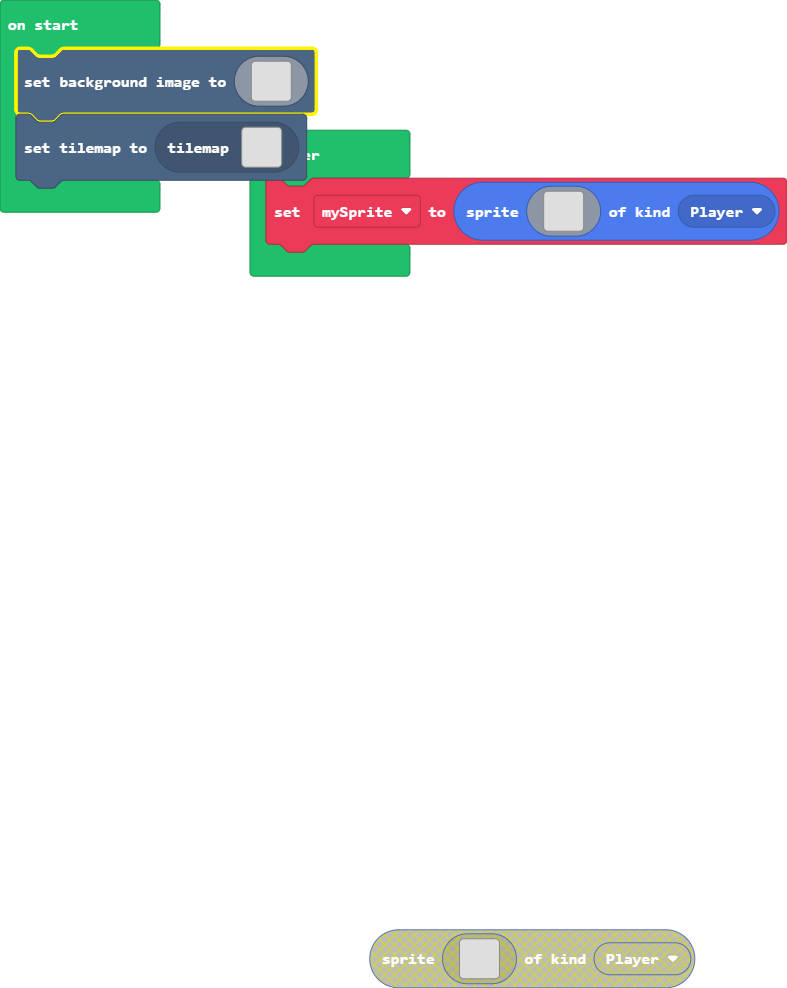
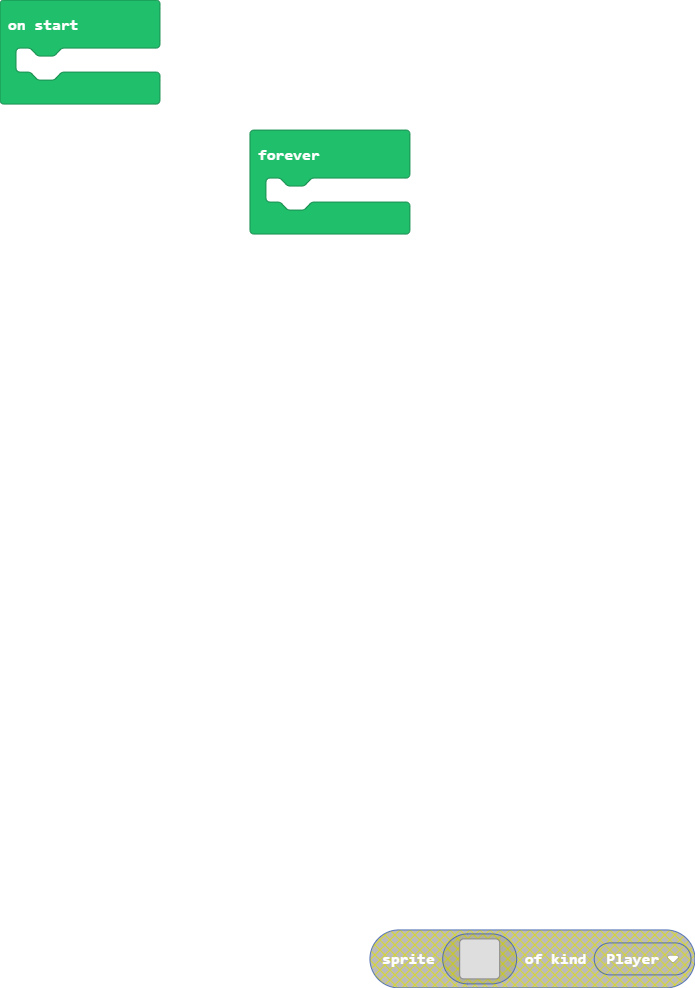
Update main.blocks, main.ts, tilemap.g.jres, tilemap.g.ts

Changed region(s): [[0.0, 0.0, 1.0, 0.3036], [0.4532, 0.9413, 1.0, 1.0]]

diff --git a/main.ts b/main.ts
@@ -1,144 +1,3 @@
-let mySprite: Sprite = null
-scene.setBackgroundImage(img`
-    ................................................................................................................................................................
-    ................................................................................................................................................................
-    ................................................................................................................................................................
-    ................................................................................................................................................................
-    ................................................................................................................................................................
-    ................................................................................................................................................................
-    ................................................................................................................................................................
-    ................................................................................................................................................................
-    ................................................................................................................................................................
-    ................................................................................................................................................................
-    ................................................................................................................................................................
-    ................................................................................................................................................................
-    ................................................................................................................................................................
-    ................................................................................................................................................................
-    ................................................................................................................................................................
-    ................................................................................................................................................................
-    ................................................................................................................................................................
-    ................................................................................................................................................................
-    ................................................................................................................................................................
-    ................................................................................................................................................................
-    ................................................................................................................................................................
-    ................................................................................................................................................................
-    ................................................................................................................................................................
-    ................................................................................................................................................................
-    ................................................................................................................................................................
-    ................................................................................................................................................................
-    ................................................................................................................................................................
-    ................................................................................................................................................................
-    ................................................................................................................................................................
-    ................................................................................................................................................................
-    ................................................................................................................................................................
-    ................................................................................................................................................................
-    ................................................................................................................................................................
-    ................................................................................................................................................................
-    ................................................................................................................................................................
-    ................................................................................................................................................................
-    ................................................................................................................................................................
-    ................................................................................................................................................................
-    ................................................................................................................................................................
-    ................................................................................................................................................................
-    ................................................................................................................................................................
-    ................................................................................................................................................................
-    ................................................................................................................................................................
-    ................................................................................................................................................................
-    ................................................................................................................................................................
-    ................................................................................................................................................................
-    ................................................................................................................................................................
-    ................................................................................................................................................................
-    ................................................................................................................................................................
-    ................................................................................................................................................................
-    ................................................................................................................................................................
-    ................................................................................................................................................................
-    ................................................................................................................................................................
-    ................................................................................................................................................................
-    ................................................................................................................................................................
-    ................................................................................................................................................................
-    ................................................................................................................................................................
-    ................................................................................................................................................................
-    ................................................................................................................................................................
-    ................................................................................................................................................................
-    ................................................................................................................................................................
-    ................................................................................................................................................................
-    ................................................................................................................................................................
-    ................................................................................................................................................................
-    ................................................................................................................................................................
-    ................................................................................................................................................................
-    ................................................................................................................................................................
-    ................................................................................................................................................................
-    ................................................................................................................................................................
-    ................................................................................................................................................................
-    ................................................................................................................................................................
-    ................................................................................................................................................................
-    ................................................................................................................................................................
-    ................................................................................................................................................................
-    ................................................................................................................................................................
-    ................................................................................................................................................................
-    ................................................................................................................................................................
-    ................................................................................................................................................................
-    ................................................................................................................................................................
-    ................................................................................................................................................................
-    ................................................................................................................................................................
-    ................................................................................................................................................................
-    ................................................................................................................................................................
-    ................................................................................................................................................................
-    ................................................................................................................................................................
-    ................................................................................................................................................................
-    ................................................................................................................................................................
-    ................................................................................................................................................................
-    ................................................................................................................................................................
-    ................................................................................................................................................................
-    ................................................................................................................................................................
-    ................................................................................................................................................................
-    ................................................................................................................................................................
-    ................................................................................................................................................................
-    ................................................................................................................................................................
-    ................................................................................................................................................................
-    ................................................................................................................................................................
-    ................................................................................................................................................................
-    ................................................................................................................................................................
-    ................................................................................................................................................................
-    ................................................................................................................................................................
-    ................................................................................................................................................................
-    ................................................................................................................................................................
-    ................................................................................................................................................................
-    ................................................................................................................................................................
-    ................................................................................................................................................................
-    ................................................................................................................................................................
-    ................................................................................................................................................................
-    ................................................................................................................................................................
-    ................................................................................................................................................................
-    ................................................................................................................................................................
-    ................................................................................................................................................................
-    ................................................................................................................................................................
-    ................................................................................................................................................................
-    ................................................................................................................................................................
-    ................................................................................................................................................................
-    ................................................................................................................................................................
-    ................................................................................................................................................................
-    ................................................................................................................................................................
-    ................................................................................................................................................................
-    `)
-tiles.setCurrentTilemap(tilemap`level1`)
 forever(function () {
-    mySprite = sprites.create(img`
-        . . . . . . . . . . . . . . . . 
-        . . . . . . . . . . . . . . . . 
-        . . . . . . . . . . . . . . . . 
-        . . . . . . . . . . . . . . . . 
-        . . . . . . . . . . . . . . . . 
-        . . . . . . . . . . . . . . . . 
-        . . . . . . . . . . . . . . . . 
-        . . . . . . . . . . . . . . . . 
-        . . . . . . . . . . . . . . . . 
-        . . . . . . . . . . . . . . . . 
-        . . . . . . . . . . . . . . . . 
-        . . . . . . . . . . . . . . . . 
-        . . . . . . . . . . . . . . . . 
-        . . . . . . . . . . . . . . . . 
-        . . . . . . . . . . . . . . . . 
-        . . . . . . . . . . . . . . . . 
-        `, SpriteKind.Player)
+	
 })

diff --git a/tilemap.g.ts b/tilemap.g.ts
@@ -24,6 +24,44 @@ namespace myTiles {
 . . . . . . . . . . . . . . . . 
 . . . . . . . . . . . . . . . . 
 `, [myTiles.transparency16], TileScale.Sixteen);
+            case "level2":
+            case "level2":return tiles.createTilemap(hex`1000100000000000000000000000000000000000000000000000000000000000000000000000000000000000000000000000000000000000000000000000000000000000000000000000000000000000000000000000000000000000000000000000000000000000000000000000000000000000000000000000000000000000000000000000000000000000000000000000000000000000000000000000000000000000000000000000000000000000000000000000000000000000000000000000000000000000000000000000000000000000000000000000000000000000000000000000000000000000000000000000000000000000000000000000000000000000`, img`
+. . . . . . . . . . . . . . . . 
+. . . . . . . . . . . . . . . . 
+. . . . . . . . . . . . . . . . 
+. . . . . . . . . . . . . . . . 
+. . . . . . . . . . . . . . . . 
+. . . . . . . . . . . . . . . . 
+. . . . . . . . . . . . . . . . 
+. . . . . . . . . . . . . . . . 
+. . . . . . . . . . . . . . . . 
+. . . . . . . . . . . . . . . . 
+. . . . . . . . . . . . . . . . 
+. . . . . . . . . . . . . . . . 
+. . . . . . . . . . . . . . . . 
+. . . . . . . . . . . . . . . . 
+. . . . . . . . . . . . . . . . 
+. . . . . . . . . . . . . . . . 
+`, [myTiles.transparency16], TileScale.Sixteen);
+            case "level3":
+            case "level3":return tiles.createTilemap(hex`1000100000000000000000000000000000000000000000000000000000000000000000000000000000000000000000000000000000000000000000000000000000000000000000000000000000000000000000000000000000000000000000000000000000000000000000000000000000000000000000000000000000000000000000000000000000000000000000000000000000000000000000000000000000000000000000000000000000000000000000000000000000000000000000000000000000000000000000000000000000000000000000000000000000000000000000000000000000000000000000000000000000000000000000000000000000000000`, img`
+. . . . . . . . . . . . . . . . 
+. . . . . . . . . . . . . . . . 
+. . . . . . . . . . . . . . . . 
+. . . . . . . . . . . . . . . . 
+. . . . . . . . . . . . . . . . 
+. . . . . . . . . . . . . . . . 
+. . . . . . . . . . . . . . . . 
+. . . . . . . . . . . . . . . . 
+. . . . . . . . . . . . . . . . 
+. . . . . . . . . . . . . . . . 
+. . . . . . . . . . . . . . . . 
+. . . . . . . . . . . . . . . . 
+. . . . . . . . . . . . . . . . 
+. . . . . . . . . . . . . . . . 
+. . . . . . . . . . . . . . . . 
+. . . . . . . . . . . . . . . . 
+`, [myTiles.transparency16], TileScale.Sixteen);
         }
         return null;
     })
